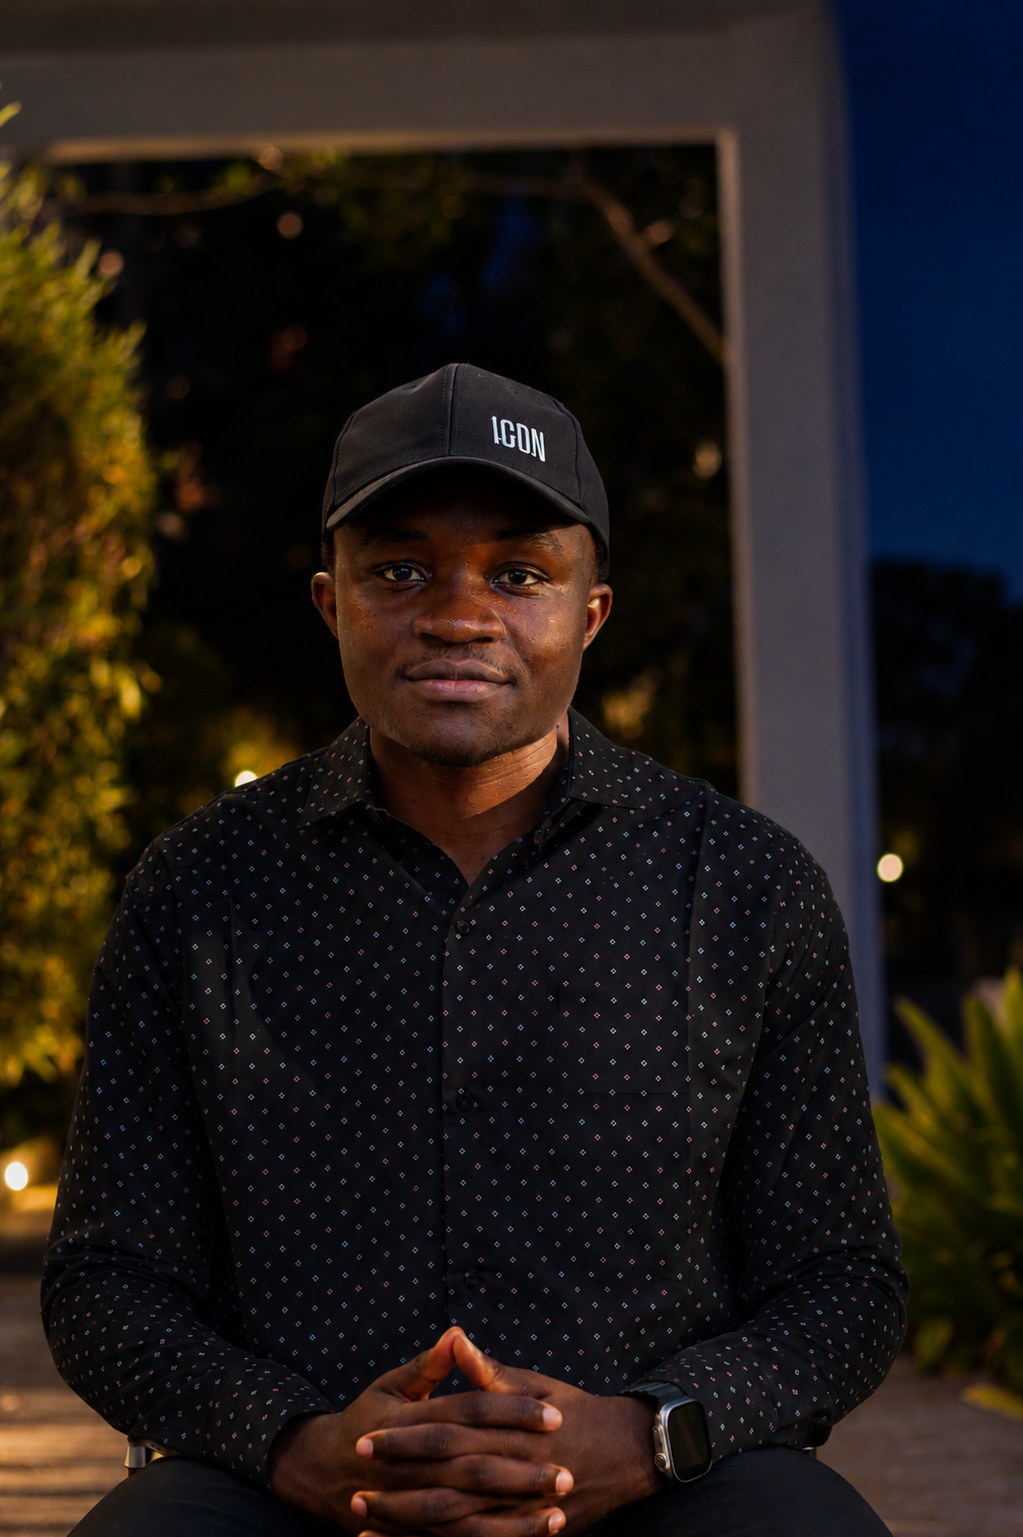
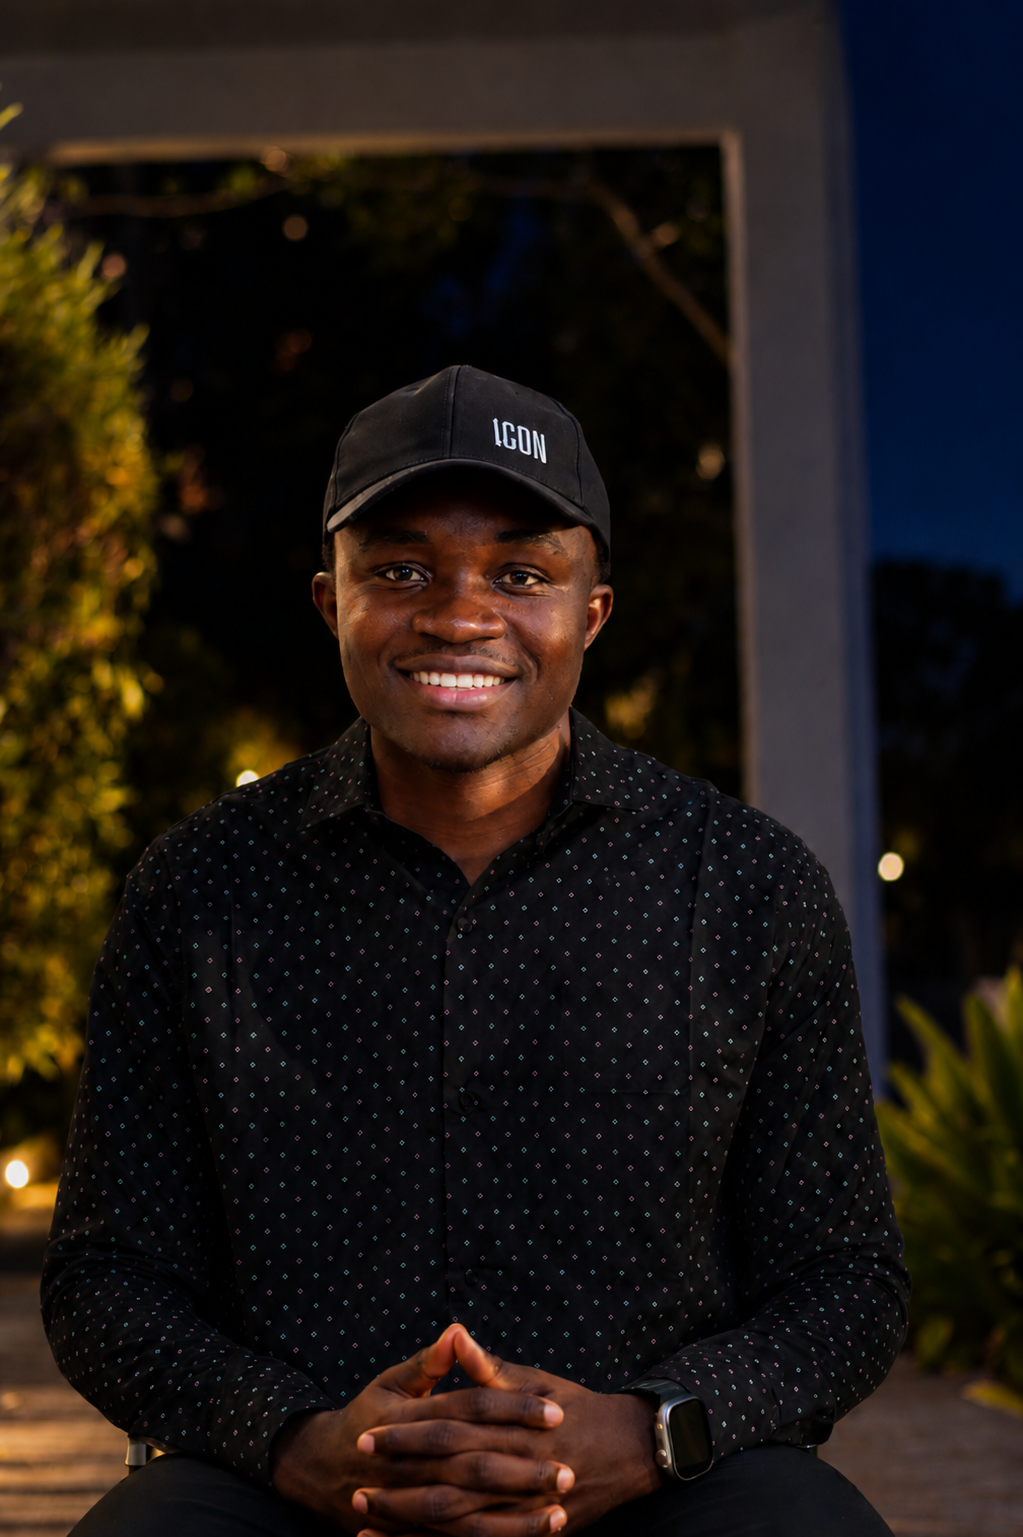
Improved visual appearance and styling
Changes include: Updated 2 React components, Modified dark_nelson.png, Modified data.js

Modified 128 lines (+117 additions, -11 deletions)

diff --git a/REACT/portfolio/src/components/index.jsx b/REACT/portfolio/src/components/index.jsx
@@ -208,6 +208,7 @@ function ResumeGateModal({ open, onClose }) {
   const [name, setName] = React.useState("");
   const [email, setEmail] = React.useState("");
   const [org, setOrg] = React.useState("");
+  const [touched, setTouched] = React.useState(false);
   const firstRef = React.useRef(null);
 
   React.useEffect(() => {
@@ -221,10 +222,14 @@ function ResumeGateModal({ open, onClose }) {
 
   if (!open) return null;
 
-  const valid = name.trim() && /\S+@\S+\.\S+/.test(email);
+  const nameError = !name.trim() ? "Name is required." : "";
+  const emailError = !email.trim() ? "Email is required." : !email.includes("@") ? "Email must contain @." : "";
+  const orgError = !org.trim() ? "Organisation is required." : "";
+  const valid = !nameError && !emailError && !orgError;
 
   const submit = (e) => {
     e.preventDefault();
+    setTouched(true);
     if (!valid) return;
     try {
       const entry = { name: name.trim(), email: email.trim(), org: org.trim(), at: new Date().toISOString() };
@@ -240,7 +245,12 @@ function ResumeGateModal({ open, onClose }) {
     a.click();
     a.remove();
 
-    setName(""); setEmail(""); setOrg("");
+    setName(""); setEmail(""); setOrg(""); setTouched(false);
+    onClose();
+  };
+
+  const cancel = () => {
+    setName(""); setEmail(""); setOrg(""); setTouched(false);
     onClose();
   };
 
@@ -255,22 +265,25 @@ function ResumeGateModal({ open, onClose }) {
           <h2>Who's asking?</h2>
           <p>Quick intro so I know who's looking at my resume — then it's all yours.</p>
         </div>
-        <form className="modal-form" onSubmit={submit}>
+        <form className="modal-form" onSubmit={submit} noValidate>
           <label className="field">
             <span>Name</span>
-            <input ref={firstRef} value={name} onChange={(e) => setName(e.target.value)} placeholder="Your name" />
+            <input ref={firstRef} value={name} onChange={(e) => setName(e.target.value)} placeholder="Your name" aria-invalid={touched && !!nameError} />
+            {touched && nameError && <div className="field-error">{nameError}</div>}
           </label>
           <label className="field">
             <span>Email</span>
-            <input type="email" value={email} onChange={(e) => setEmail(e.target.value)} placeholder="[email redacted]" />
+            <input value={email} onChange={(e) => setEmail(e.target.value)} placeholder="[email redacted]" aria-invalid={touched && !!emailError} />
+            {touched && emailError && <div className="field-error">{emailError}</div>}
           </label>
           <label className="field">
             <span>Organisation</span>
-            <input value={org} onChange={(e) => setOrg(e.target.value)} placeholder="Company / school (optional)" />
+            <input value={org} onChange={(e) => setOrg(e.target.value)} placeholder="Company / school" aria-invalid={touched && !!orgError} />
+            {touched && orgError && <div className="field-error">{orgError}</div>}
           </label>
           <div className="modal-actions">
-            <button type="button" className="btn" onClick={onClose}>Cancel</button>
-            <button type="submit" className="btn primary" disabled={!valid}>
+            <button type="button" className="btn" onClick={cancel}>Cancel</button>
+            <button type="submit" className="btn primary">
               <span className="ico"><Icon name="download" /></span> Download Resume
             </button>
           </div>
@@ -280,4 +293,87 @@ function ResumeGateModal({ open, onClose }) {
   );
 }
 
-export { Icon, SocialIcon, Sidebar, ThemeToggle, MessageModal, ResumeGateModal };
+function NeuralBg({ theme }) {
+  const canvasRef = React.useRef(null);
+
+  React.useEffect(() => {
+    const reduceMotion = window.matchMedia("(prefers-reduced-motion: reduce)").matches;
+    const canvas = canvasRef.current;
+    const ctx = canvas.getContext("2d");
+    let w, h, nodes, raf;
+    let running = true;
+
+    const dotColor = theme === "dark" ? "148, 163, 184" : "100, 116, 139";
+    const lineColor = theme === "dark" ? "96, 165, 250" : "59, 130, 246";
+
+    const resize = () => {
+      w = canvas.width = window.innerWidth;
+      h = canvas.height = window.innerHeight;
+      const count = Math.round((w * h) / 14000);
+      nodes = Array.from({ length: count }, () => ({
+        x: Math.random() * w,
+        y: Math.random() * h,
+        vx: (Math.random() - 0.5) * 0.18,
+        vy: (Math.random() - 0.5) * 0.18,
+      }));
+    };
+
+    const step = () => {
+      if (!running) return;
+      ctx.clearRect(0, 0, w, h);
+      for (const n of nodes) {
+        n.x += n.vx; n.y += n.vy;
+        if (n.x < 0 || n.x > w) n.vx *= -1;
+        if (n.y < 0 || n.y > h) n.vy *= -1;
+      }
+      for (let i = 0; i < nodes.length; i++) {
+        for (let j = i + 1; j < nodes.length; j++) {
+          const a = nodes[i], b = nodes[j];
+          const dx = a.x - b.x, dy = a.y - b.y;
+          const dist = Math.sqrt(dx * dx + dy * dy);
+          if (dist < 160) {
+            ctx.strokeStyle = `rgba(${lineColor}, ${0.3 * (1 - dist / 160)})`;
+            ctx.lineWidth = 1;
+            ctx.beginPath();
+            ctx.moveTo(a.x, a.y);
+            ctx.lineTo(b.x, b.y);
+            ctx.stroke();
+          }
+        }
+      }
+      for (const n of nodes) {
+        ctx.fillStyle = `rgba(${dotColor}, 0.35)`;
+        ctx.beginPath();
+        ctx.arc(n.x, n.y, 1.6, 0, Math.PI * 2);
+        ctx.fill();
+      }
+      raf = requestAnimationFrame(step);
+    };
+
+    resize();
+    window.addEventListener("resize", resize);
+
+    if (!reduceMotion) {
+      raf = requestAnimationFrame(step);
+    } else {
+      step();
+    }
+
+    const onVisibility = () => {
+      running = document.visibilityState === "visible" && !reduceMotion;
+      if (running) raf = requestAnimationFrame(step);
+    };
+    document.addEventListener("visibilitychange", onVisibility);
+
+    return () => {
+      running = false;
+      cancelAnimationFrame(raf);
+      window.removeEventListener("resize", resize);
+      document.removeEventListener("visibilitychange", onVisibility);
+    };
+  }, [theme]);
+
+  return <canvas ref={canvasRef} className="neural-bg" aria-hidden="true" />;
+}
+
+export { Icon, SocialIcon, Sidebar, ThemeToggle, MessageModal, ResumeGateModal, NeuralBg };

diff --git a/REACT/portfolio/src/styles/global.css b/REACT/portfolio/src/styles/global.css
@@ -90,6 +90,13 @@ button { font-family: inherit; }
   height: 100vh;
   overflow: hidden;
 }
+.neural-bg {
+  position: fixed;
+  inset: 0;
+  z-index: 0;
+  pointer-events: none;
+}
+.sidebar, .main { position: relative; z-index: 1; }
 
 /* ---------------- Sidebar ---------------- */
 .sidebar {
@@ -956,6 +963,8 @@ button { font-family: inherit; }
 }
 .field input::placeholder, .field textarea::placeholder { color: var(--ink-3); }
 .field input:focus, .field textarea:focus { border-color: var(--accent-line); box-shadow: 0 0 0 4px var(--accent-soft); }
+.field input[aria-invalid="true"] { border-color: #ef4444; }
+.field-error { font-size: 12.5px; color: #ef4444; margin-top: -2px; }
 .modal-actions { display: flex; justify-content: flex-end; gap: 10px; margin-top: 4px; }
 .modal-sent {
   display: flex; align-items: center; gap: 12px;

diff --git a/REACT/portfolio/src/App.jsx b/REACT/portfolio/src/App.jsx
@@ -1,7 +1,7 @@
 /* Root app: routing, resizable sidebar, theme */
 
 import React from 'react';
-import { Sidebar, Icon, ThemeToggle, MessageModal, ResumeGateModal } from './components/index';
+import { Sidebar, Icon, ThemeToggle, MessageModal, ResumeGateModal, NeuralBg } from './components/index';
 import { Chat } from './components/Chat';
 import { TopBar, Hero, Education, Projects, Gallery, Experience, Skills, Community, Blog, Contact } from './pages/index';
 
@@ -99,6 +99,7 @@ function App() {
 
   return (
     <div className="app">
+      <NeuralBg theme={theme} />
       {!mobileOpen && <ThemeToggle theme={theme} setTheme={setTheme} />}
       <MessageModal open={msgOpen} onClose={() => setMsgOpen(false)} />
       <ResumeGateModal open={resumeOpen} onClose={() => setResumeOpen(false)} />

diff --git a/REACT/portfolio/src/data.js b/REACT/portfolio/src/data.js
@@ -21,7 +21,7 @@ export const DATA = {
       { id: "whatsapp", label: "WhatsApp", short: "wa", url: "https://wa.me/237652278011" },
     ],
     summary:
-      "Solution-oriented software engineering and data science student with strong leadership and execution skills. I transform complex problems into scalable solutions across education, technology, and community development. I am known for high ownership, rapid learning, and delivering measurable results.",
+      "Solution-oriented software engineer. I transform complex problems into scalable solutions across education, technology, and community development. I am known for high ownership, rapid learning, and delivering measurable results.",
     stats: [
       { n: "600+", l: "students taught" },
       { n: "17", l: "schools reached" },